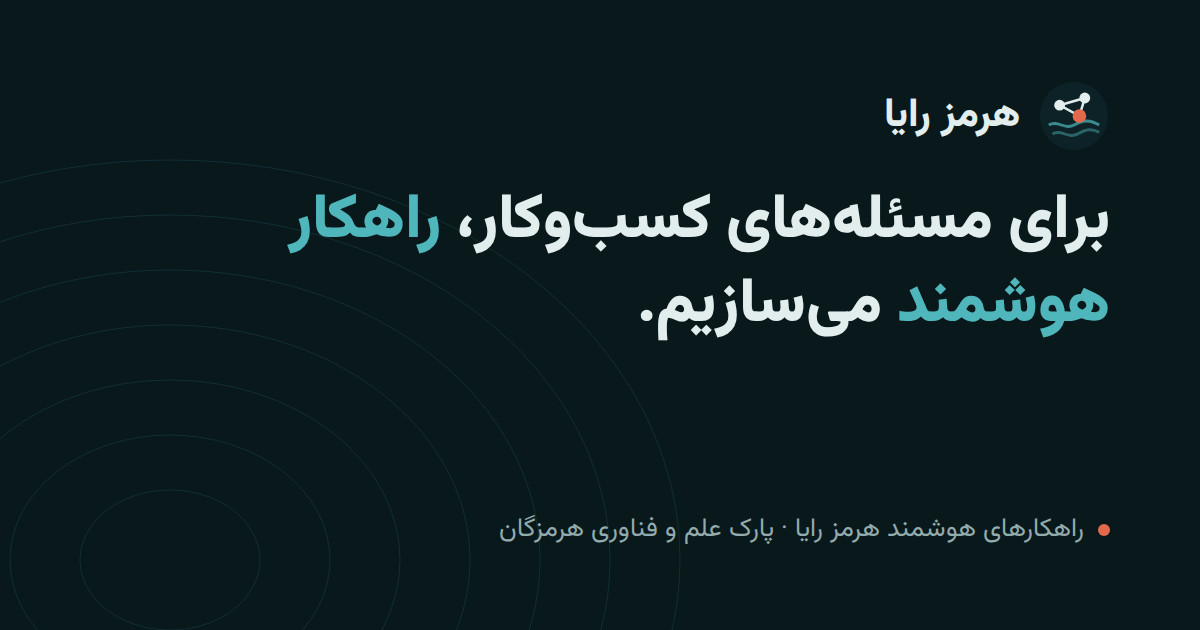
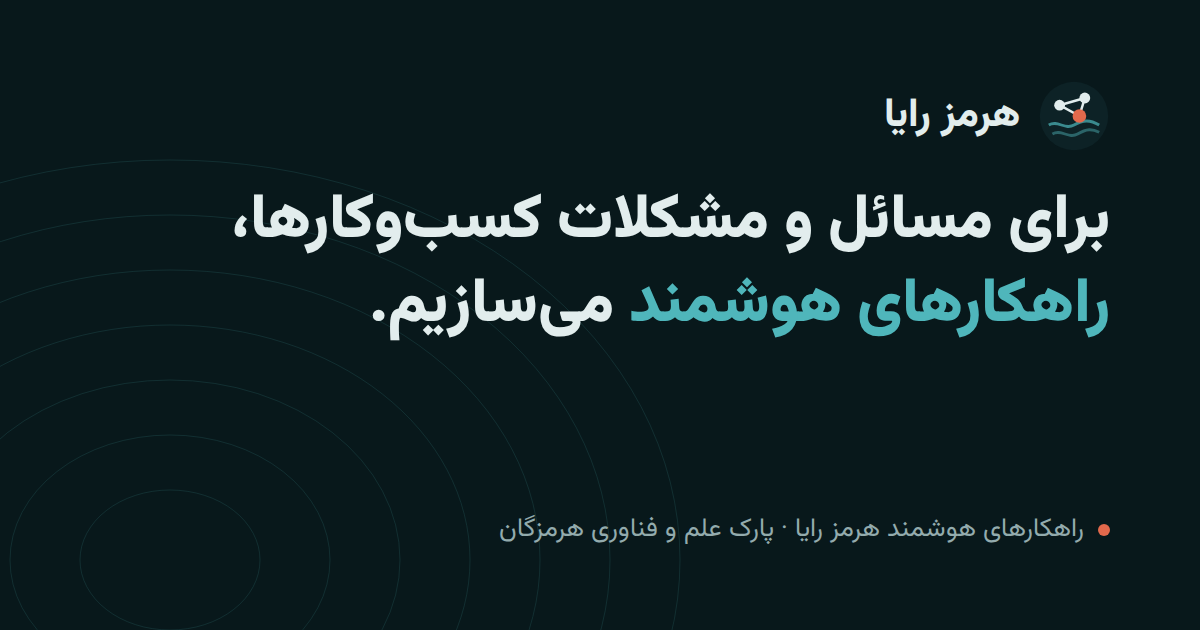
New home headline: برای مسائل و مشکلات کسبوکارها، راهکارهای هوشمند میسازیم
Link-preview images regenerated to match.

Claude-Session: https://claude.ai/code/session_01T1MaUvd5DLLy1MtGucPgjv

Changed region(s): [[0.185, 0.3016, 0.7708, 0.4222], [0.3083, 0.4222, 0.925, 0.5429]]

diff --git a/site/tools/make-images.js b/site/tools/make-images.js
@@ -16,7 +16,7 @@ function og(lang) {
 <div style="position:absolute;inset:0;padding:80px 90px;display:flex;flex-direction:column;gap:28px">
 <div style="display:flex;align-items:center;gap:18px"><div style="width:72px;height:72px">${svg}</div>
 <div style="font-size:40px;font-weight:800">${fa ? 'هرمز رایا' : 'Hormoz Raya'}</div></div>
-<div style="font-size:${fa ? 62 : 64}px;font-weight:900;line-height:1.35;max-width:900px">${fa ? 'برای مسئلههای کسبوکار، <span style="color:#4fb6bb">راهکار هوشمند</span> میسازیم.' : 'We build <span style="color:#4fb6bb">intelligent solutions</span> to business problems.'}</div>
+<div style="font-size:${fa ? 62 : 64}px;font-weight:900;line-height:1.35;max-width:900px">${fa ? 'برای مسائل و مشکلات کسبوکارها، <span style="color:#4fb6bb">راهکارهای هوشمند</span> میسازیم.' : 'We build <span style="color:#4fb6bb">intelligent solutions</span> to the problems and challenges businesses face.'}</div>
 <div style="margin-top:auto;font-size:26px;color:#93abad;display:flex;gap:14px;align-items:center"><span style="width:12px;height:12px;border-radius:50%;background:#e2694c;display:inline-block"></span>${fa ? 'راهکارهای هوشمند هرمز رایا · پارک علم و فناوری هرمزگان' : 'Hormoz Raya Smart Solutions · Hormozgan Science & Technology Park'}</div>
 </div></body>`;
 }

diff --git a/public/index.html b/public/index.html
@@ -46,7 +46,7 @@
 <canvas id="chart" aria-hidden="true"></canvas>
 <div class="wrap">
 <span class="tag"><i></i>هسته فناور مستقر در پارک علم و فناوری هرمزگان</span>
-<h1>برای مسئلههای کسبوکار، <em>راهکار هوشمند</em> میسازیم.</h1>
+<h1>برای مسائل و مشکلات کسبوکارها، <em>راهکارهای هوشمند</em> میسازیم.</h1>
 <p class="lead">راهکارهای هوشمند هرمز رایا با ترکیب هوش مصنوعی، داده و نرمافزار، محصولات و راهکارهای اختصاصی میسازد: از تحلیل تجارت جهانی و یافتن خریدار خارجی تا ابزار فروش فروشگاهها و ساخت وبسایت کسبوکارهای کوچک.</p>
 <div class="cta"><a class="btn solid" href="services/">راهکار برای کسبوکار شما</a>
 <a class="btn ghost" href="products/">محصولات ما</a></div>

diff --git a/public/en/index.html b/public/en/index.html
@@ -46,7 +46,7 @@
 <canvas id="chart" aria-hidden="true"></canvas>
 <div class="wrap">
 <span class="tag"><i></i>Technology core at Hormozgan Science &amp; Technology Park</span>
-<h1>We build <em>intelligent solutions</em> to business problems.</h1>
+<h1>We build <em>intelligent solutions</em> to the problems and challenges businesses face.</h1>
 <p class="lead">Hormoz Raya Smart Solutions combines AI, data and software engineering to build products and custom solutions: from analysing world trade and finding foreign buyers to sales tools for shops and websites for small businesses.</p>
 <div class="cta"><a class="btn solid" href="../en/services/">A solution for your business</a>
 <a class="btn ghost" href="../en/products/">Our products</a></div>

diff --git a/site/build.py b/site/build.py
@@ -286,7 +286,7 @@ def home(lang):
 <canvas id="chart" aria-hidden="true"></canvas>
 <div class="wrap">
 <span class="tag"><i></i>{e(t(SITE['park']))}</span>
-<h1>{t(L('برای مسئلههای کسبوکار، <em>راهکار هوشمند</em> میسازیم.', 'We build <em>intelligent solutions</em> to business problems.'))}</h1>
+<h1>{t(L('برای مسائل و مشکلات کسبوکارها، <em>راهکارهای هوشمند</em> میسازیم.', 'We build <em>intelligent solutions</em> to the problems and challenges businesses face.'))}</h1>
 <p class="lead">{e(t(L('راهکارهای هوشمند هرمز رایا با ترکیب هوش مصنوعی، داده و نرمافزار، محصولات و راهکارهای اختصاصی میسازد: از تحلیل تجارت جهانی و یافتن خریدار خارجی تا ابزار فروش فروشگاهها و ساخت وبسایت کسبوکارهای کوچک.',
     'Hormoz Raya Smart Solutions combines AI, data and software engineering to build products and custom solutions: from analysing world trade and finding foreign buyers to sales tools for shops and websites for small businesses.')))}</p>
 <div class="cta"><a class="btn solid" href="{pg.link('services/')}">{e(t(L('راهکار برای کسبوکار شما', 'A solution for your business')))}</a>
